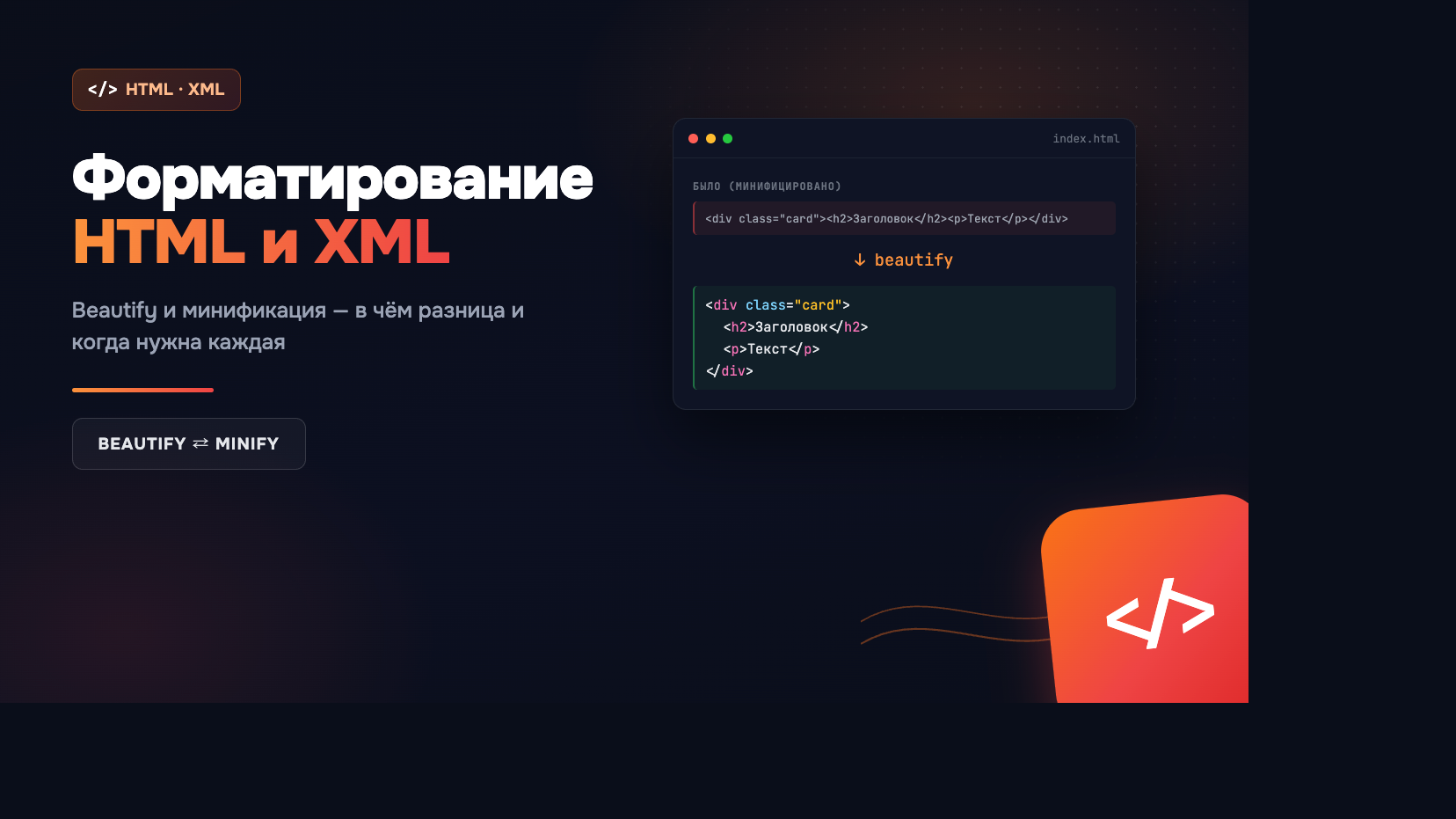
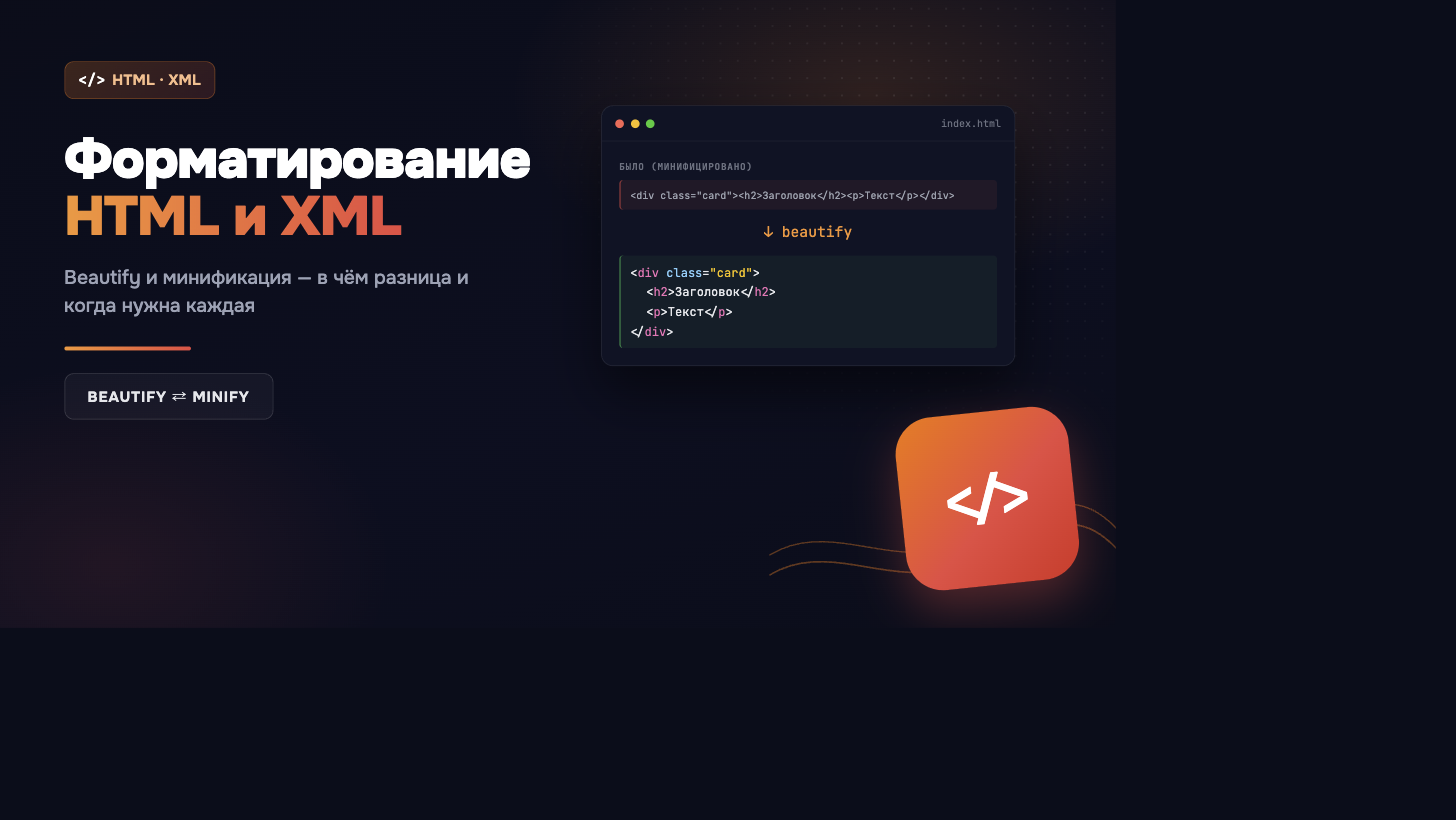
fix(blog): обложки без бликов за краем, убрана секция про 62.5%, OG-пропорции и мёртвый CSS в сайдбаре
- Обложки: декоративный бейдж раньше нарочно выходил за край канвы
  (right/bottom: -30px) — overflow:hidden срезал ему угол ровной линией,
  и это читалось как испорченный файл, а не приём дизайна. Придвинул
  бейдж внутрь кадра в обеих обложках и пересобрал код в примере на
  px-rem обложке под оставшийся текст статьи.
- px-rem-converter.md: убрана секция «Трюк с базой 10px» (62.5%-хак) —
  по просьбе автора; заодно почищены ссылки на неё в excerpt и списке
  частых ошибок, чтобы текст не обещал то, чего в статье больше нет.
- app/blog/[slug]/page.tsx: openGraph.images для статей с обложкой
  заявлял 1200×630 (1.91:1) при реальном файле 16:9 — соцсети, которые
  доверяют мета-тегам, а не фактическим пропорциям, обрезали бы картинку.
- ProjectsRightSidebar: h-full/overflow-y-auto были скопированы из
  раскладки страниц инструментов (там сайдбар живёт в
  h-[calc(100vh-5rem)]-колонке со своим скроллом) и не подходят
  странице блога, где сайдбар — просто position:sticky в обычном
  потоке документа. Вынесено под boundedHeight (по умолчанию true —
  страницы инструментов не затронуты), на блоге теперь false.

diff --git a/components/sidebars/ProjectsRightSidebar.tsx b/components/sidebars/ProjectsRightSidebar.tsx
@@ -3,22 +3,41 @@
 import { getWidgetByPath } from '@/lib/constants/widgets'
 import { usePathname } from 'next/navigation'
 import { AdSection } from '@/components/ads'
+import { cn } from '@/lib/utils'
 import { FeedbackCard } from './widgets/FeedbackCard'
 import { RecentToolsCard } from './widgets/RecentToolsCard'
+
+interface Props {
+	/**
+	 * true — страницы инструментов (ProjectsLayoutWrapper): там сайдбар живёт
+	 * внутри h-[calc(100vh-5rem)]-колонки со своим скроллом, и h-full/overflow
+	 * тянут его на всю эту колонку. false — страницы блога: обычный поток
+	 * документа, сайдбар просто position:sticky и сам решает свою высоту по
+	 * контенту. h-full там был мёртвым (проценты без заданной высоты предка),
+	 * но лишний overflow-y-auto на нём создавал самостоятельный скролл-контейнер
+	 * поверх обычной прокрутки страницы — не нужно.
+	 */
+	boundedHeight?: boolean
+}
 
 /**
  * Правый сайдбар. К конкретному инструменту привязана только звёздочка
  * «в избранное», поэтому сайдбар работает и там, где инструмента нет —
  * например, на страницах блога.
  */
-export function ProjectsRightSidebar() {
+export function ProjectsRightSidebar({ boundedHeight = true }: Props) {
 	const pathname = usePathname()
 
 	const widgetPath = pathname.split('/').pop()
 	const widget = widgetPath ? getWidgetByPath(widgetPath) : undefined
 
 	return (
-		<aside className='w-72 xl:w-80 h-full p-3 lg:p-4 space-y-3 lg:space-y-4 overflow-y-auto projects-scroll flex-shrink-0'>
+		<aside
+			className={cn(
+				'w-72 xl:w-80 p-3 lg:p-4 space-y-3 lg:space-y-4 flex-shrink-0',
+				boundedHeight && 'h-full overflow-y-auto projects-scroll'
+			)}
+		>
 			<RecentToolsCard widget={widget ?? undefined} />
 			<AdSection />
 			<FeedbackCard />

diff --git a/app/blog/[slug]/page.tsx b/app/blog/[slug]/page.tsx
@@ -90,7 +90,7 @@ export default async function Post(props: Params) {
 
 					<div className='hidden lg:block'>
 						<div className='sticky top-6'>
-							<ProjectsRightSidebar />
+							<ProjectsRightSidebar boundedHeight={false} />
 						</div>
 					</div>
 				</div>
@@ -123,6 +123,11 @@ export async function generateMetadata(props: Params): Promise<Metadata> {
 	const imageUrl = post.coverImage
 		? `${baseUrl}${post.coverImage}`
 		: `${baseUrl}/og-image.png`
+	// Обложки статей — 16:9, а не 1.91:1 как og-image.png. Врать в width/height
+	// нельзя: соцсети, которые доверяют мета-тегам, а не реальным пропорциям
+	// файла (не все перепроверяют), обрежут картинку под неверное соотношение.
+	const imageWidth = post.coverImage ? 1600 : 1200
+	const imageHeight = post.coverImage ? 900 : 630
 
 	return {
 		title,
@@ -145,8 +150,8 @@ export async function generateMetadata(props: Params): Promise<Metadata> {
 			images: [
 				{
 					url: imageUrl,
-					width: 1200,
-					height: 630,
+					width: imageWidth,
+					height: imageHeight,
 					alt: post.title
 				}
 			],

diff --git a/_posts/px-rem-converter.md b/_posts/px-rem-converter.md
@@ -1,8 +1,8 @@
 ---
 title: 'Как перевести px в rem (и обратно) в CSS'
 excerpt:
-  'Разбираем формулу перевода px в rem, чем rem отличается от em, зачем вообще
-  использовать rem вместо px и как сделать перевод в уме через хитрость с 62.5%.'
+  'Разбираем формулу перевода px в rem, чем rem отличается от em и зачем вообще
+  использовать rem вместо px.'
 coverImage: '/images/blog/px-rem-converter.png'
 date: '2026-07-20T12:00:00.000Z'
 author:
@@ -103,28 +103,6 @@ rem = px  ÷ 16      /* 24px  ÷ 16 = 1.5rem */
 Смешивать единицы в одном проекте — нормально, если в каждом месте понятно,
 почему выбрана именно эта.
 
-## Трюк с базой 10px
-
-Чтобы не держать в голове деление на 16, корню задают `font-size: 62.5%` — это
-как раз 10px от стандартных браузерных 16px:
-
-```css
-html {
-	font-size: 62.5%;
-} /* 1rem = 10px */
-body {
-	font-size: 1.6rem;
-} /* вернули читаемые 16px тексту */
-```
-
-После этого `1rem` равен `10px`, и перевод превращается в сдвиг запятой: 24px —
-это 2.4rem, 32px — это 3.2rem.
-
-Важная деталь: базу задают в **процентах**, а не в пикселях. Жёсткое
-`font-size: 10px` на корне отрезало бы пользовательскую настройку шрифта — то
-есть убило бы ровно то, ради чего вообще берут `rem`. Проценты же считаются от
-пользовательской базы браузера и сохраняют масштабирование.
-
 ## Шрифт, который тянется за экраном
 
 Фиксированный `rem` хорош для постоянного размера, но если текст должен плавно
@@ -147,11 +125,11 @@ h1 {
 
 ## Частые ошибки
 
-- **Жёсткий `px` на корневом `<html>`.** Убивает пользовательский зум точно так
-  же, как обычный `font-size: 10px` вместо `62.5%`.
-- **Смешивание баз в разных компонентах.** Если часть верстки на 16px, а часть
-  внезапно на 62.5%-хаке, одинаковый `rem` в разных местах даёт разный
-  результат. База должна быть одна на весь проект.
+- **Жёсткий `px` на корневом `<html>`.** Убивает пользовательский зум: браузер
+  масштабирует размер шрифта корня, а `rem` уже не реагирует.
+- **Смешивание баз в разных компонентах.** Если часть вёрстки завязана на
+  16px, а часть — на изменённый `font-size` корня, одинаковый `rem` в разных
+  местах даёт разный результат. База должна быть одна на весь проект.
 - **Перевод «на глаз».** 15px — это не 1rem и не 0.9rem, а 0.9375rem. Мелкие
   расхождения незаметны на одном элементе, но накапливаются в сетке из десятков.
 